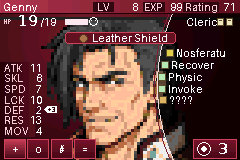
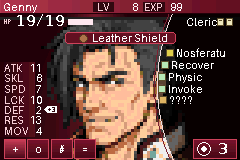
HP 19/19 con mismo tamaño y diagonal recta, sin Rating ni carita, fondo en cono de luz
Claude-Session: https://claude.ai/code/session_01C4QAM7MwvCQVjJLG12SBSt

diff --git a/gba_status/generar.py b/gba_status/generar.py
@@ -15,11 +15,15 @@ DARK, FR = c(48, 8, 20), c(200, 64, 88)
 img = Image.new("RGB", (W, H))
 f = ImageFont.load_default()
 
-# fondo: degradado radial rojo oscuro (centro claro arriba-izq del retrato)
+# fondo: cono de luz tinto que baja desde arriba (apice fuera de pantalla)
+AX, AY, ANG = 95, -60, math.radians(24)
 for y in range(H):
     for x in range(W):
-        k = min(1, math.hypot(x - 100, (y - 40) * 1.3) / 170)
-        img.putpixel((x, y), lerp((128, 32, 48), (40, 6, 14), k))
+        a = abs(math.atan2(x - AX, y - AY))  # angulo respecto al eje del cono
+        borde = max(0, 1 - a / ANG)            # 1 en el eje, 0 fuera del cono
+        dist = math.hypot(x - AX, y - AY) / 260
+        k = 1 - borde * max(0, 1 - dist * 0.6)
+        img.putpixel((x, y), lerp((136, 34, 52), (36, 5, 12), min(1, k)))
 
 # retrato (arte del usuario, fondo morado transparente)
 RX, RY = -26, 17  # ojos alineados con la guia
@@ -80,16 +84,16 @@ def mini(x, y, s, col):
 grad_rect(0, 0, 239, 12, (176, 56, 80), (96, 16, 32), vertical=False)
 d.line([(0, 13), (239, 13)], fill=c(32, 4, 10))
 t(3, 1, "Genny")
-for x0, x1, lab in [(93, 113, "LV"), (143, 164, "EXP"), (183, 218, "Rating")]:
+for x0, x1, lab in [(93, 113, "LV"), (143, 164, "EXP")]:
     d.rectangle([x0, 2, x1, 11], fill=DARK); t(x0 + (x1 - x0 - d.textlength(lab, font=f)) // 2, 1, lab, LBL)
-tr(138, 1, "8"); tr(182, 1, "99"); tr(236, 1, "71")
+tr(138, 1, "8"); tr(182, 1, "99")
 
 # HP
 fb = ImageFont.truetype("/usr/share/fonts/truetype/dejavu/DejaVuSans-Bold.ttf", 15)
 mini(4, 19, "HP", LBL)  # fuente 3x5, la mas chica legible
-d.text((18, 12), "19", font=fb, fill=TXT); t(42, 16, "/19")
-d.rectangle([65, 19, 87, 24], fill=c(248, 224, 232))
-d.ellipse([89, 17, 97, 25], outline=TXT); d.point([(91, 20), (95, 20)], fill=TXT)
+d.text((16, 12), "19", font=fb, fill=TXT); d.text((45, 12), "19", font=fb, fill=TXT)
+for i in range(6): d.line([(42 - i, 14 + 2 * i), (42 - i, 15 + 2 * i)], fill=TXT)  # diagonal recta 1:2
+d.rectangle([68, 19, 92, 24], fill=c(248, 224, 232))
 tr(214, 16, "Cleric")
 for x in (217, 226):
     d.rectangle([x, 18, x + 6, 25], fill=c(232, 224, 184), outline=c(88, 72, 40))
